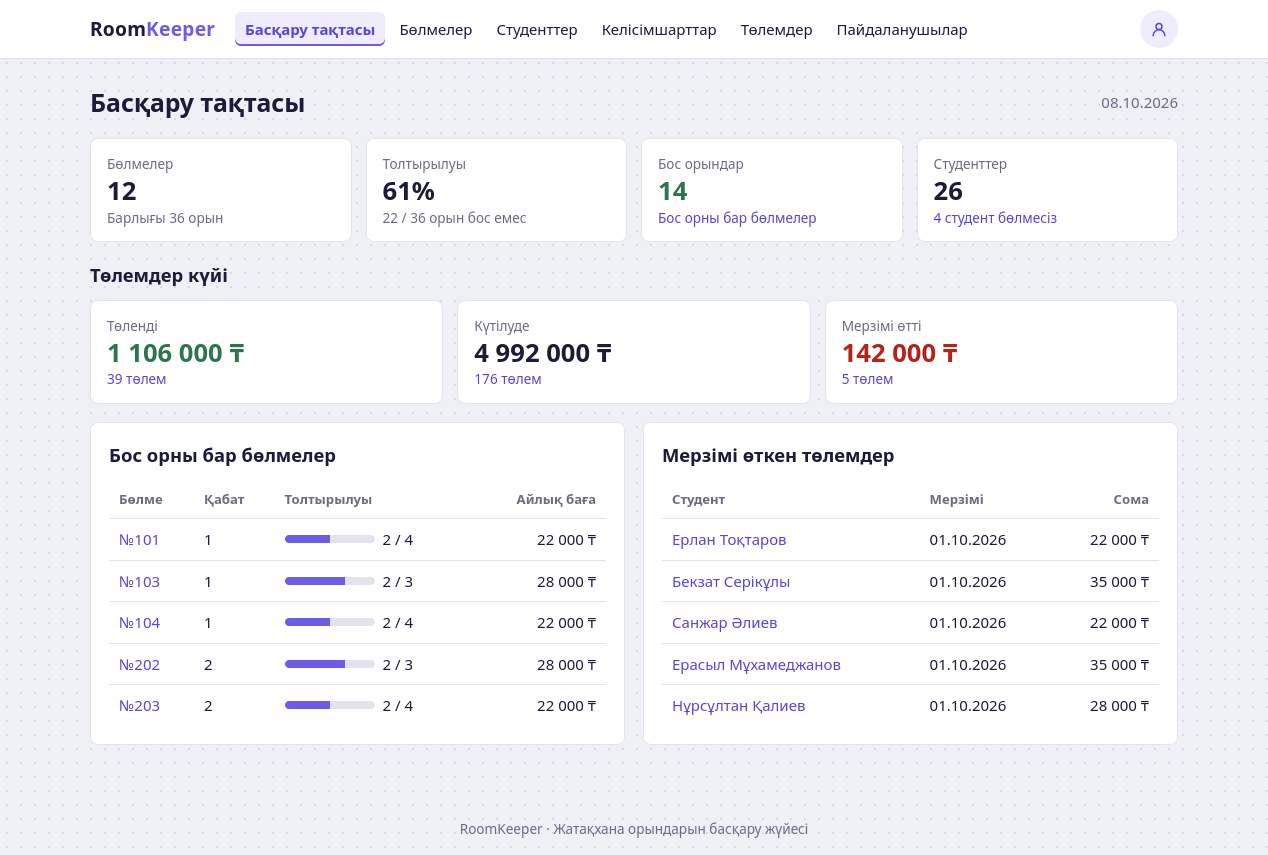
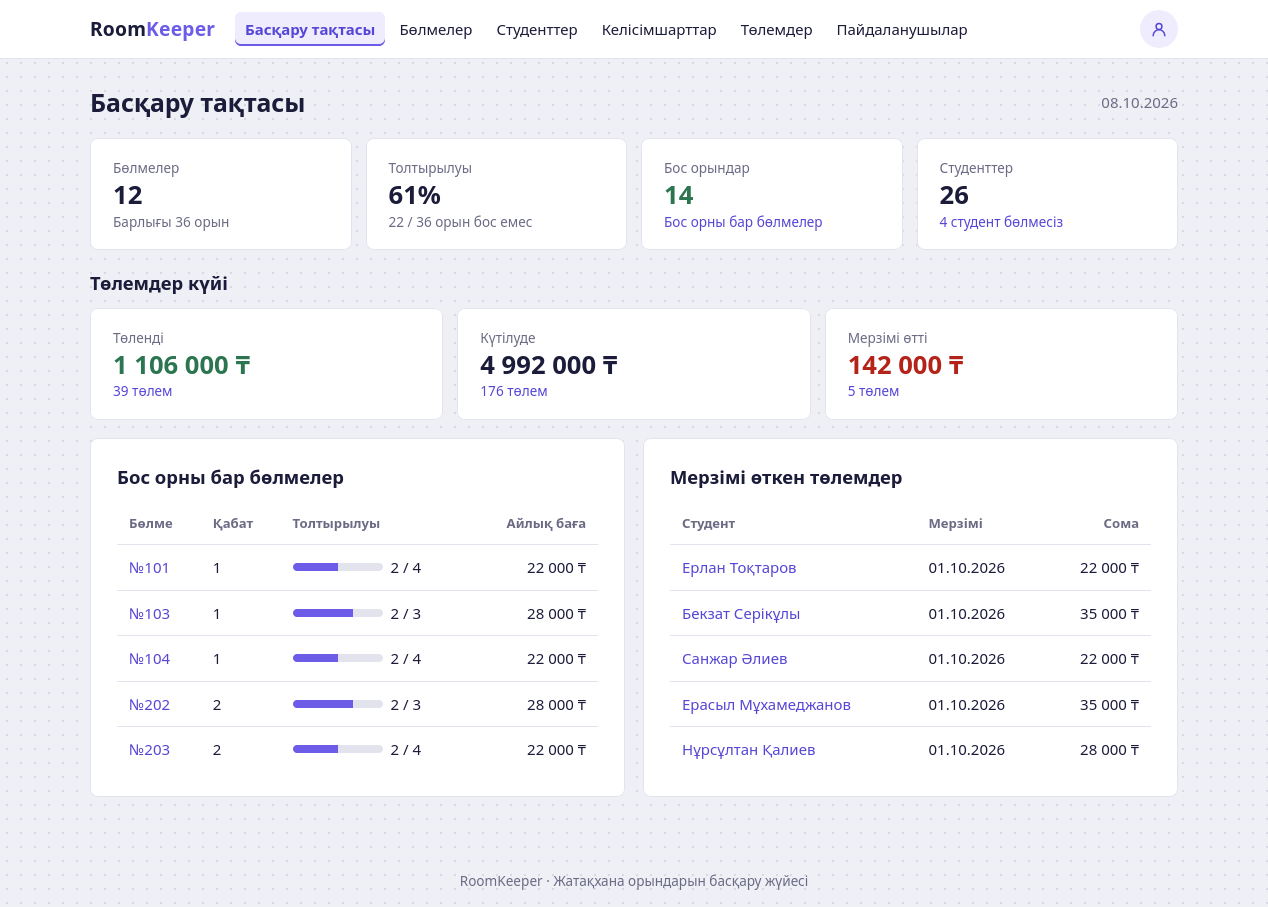
Add Card Change In System

diff --git a/server/app/static/css/style.css b/server/app/static/css/style.css
@@ -100,14 +100,15 @@ h2 { font-size: 1.15rem; margin: 0 0 .75rem; }
   background: var(--surface);
   border: 1px solid var(--border);
   border-radius: var(--radius);
-  padding: 18px;
+  padding: 24px 26px;
   margin-bottom: 18px;
 }
-.card-form { max-width: 620px; }
+/* A heading that shares its row with a button, inside a card. */
+.card .page-head h2 { margin: 0; }
 
 .grid { display: grid; gap: 14px; grid-template-columns: repeat(auto-fit, minmax(190px, 1fr)); margin-bottom: 18px; }
 .columns { display: grid; gap: 18px; grid-template-columns: repeat(auto-fit, minmax(320px, 1fr)); }
-.stat { background: var(--surface); border: 1px solid var(--border); border-radius: var(--radius); padding: 14px 16px; }
+.stat { background: var(--surface); border: 1px solid var(--border); border-radius: var(--radius); padding: 18px 22px; }
 .stat .label { color: var(--muted); font-size: .85rem; }
 .stat .value { font-size: 1.6rem; font-weight: 700; line-height: 1.3; }
 .stat .sub { color: var(--muted); font-size: .85rem; }
@@ -115,14 +116,15 @@ h2 { font-size: 1.15rem; margin: 0 0 .75rem; }
 .stat-success .value { color: var(--success); }
 
 /* Definition lists on detail pages */
-.details { display: grid; grid-template-columns: max-content 1fr; gap: 6px 18px; margin: 0; }
-.details dt { color: var(--muted); }
-.details dd { margin: 0; }
+/* Facts on detail pages: label over value, as many per row as fit. */
+.details { display: grid; grid-template-columns: repeat(auto-fit, minmax(190px, 1fr)); gap: 18px 24px; margin: 0; }
+.details dt { margin-bottom: 2px; color: var(--muted); font-size: .82rem; }
+.details dd { margin: 0; font-weight: 500; overflow-wrap: anywhere; }
 
 /* Buttons */
 .btn {
   display: inline-block;
-  padding: 8px 14px;
+  padding: 9px 16px;
   border: 1px solid var(--border);
   border-radius: 6px;
   background: var(--surface);
@@ -168,8 +170,31 @@ form.inline { display: inline; }
 .field .hint { color: var(--muted); }
 .field .error { color: var(--danger); }
 .field-check label { font-weight: 400; display: flex; align-items: center; gap: 8px; }
-.field-row { display: grid; gap: 14px; grid-template-columns: repeat(auto-fit, minmax(160px, 1fr)); }
 .form-actions { display: flex; gap: 8px; margin-top: 6px; }
+
+/* Add/edit forms fill the page: four columns of fields that fold to two
+   and then one as the window narrows. */
+.form-grid { display: grid; gap: 6px 20px; grid-template-columns: repeat(4, minmax(0, 1fr)); }
+.form-grid .field-check { grid-column: 1 / -1; }
+.span-2 { grid-column: span 2; }
+.span-3 { grid-column: span 3; }
+.card-form .field input:not([type="checkbox"]),
+.card-form .field select,
+.filters input,
+.filters select,
+.filters .btn { padding: 10px 12px; }
+.filters .btn { padding-inline: 18px; }
+.card-form .form-actions { margin-top: 10px; padding-top: 20px; border-top: 1px solid var(--border); }
+.card-form .form-actions .btn { padding: 10px 22px; }
+@media (max-width: 900px) {
+  .form-grid { grid-template-columns: repeat(2, minmax(0, 1fr)); }
+  .span-3 { grid-column: 1 / -1; }
+}
+@media (max-width: 560px) {
+  .form-grid { grid-template-columns: 1fr; }
+  .span-2 { grid-column: auto; }
+  .card { padding: 18px; }
+}
 
 .filters {
   display: flex;
@@ -184,7 +209,7 @@ form.inline { display: inline; }
 /* Tables */
 .table-wrap { overflow-x: auto; }
 table { width: 100%; border-collapse: collapse; }
-th, td { padding: 9px 10px; text-align: left; border-bottom: 1px solid var(--border); vertical-align: middle; }
+th, td { padding: 11px 12px; text-align: left; border-bottom: 1px solid var(--border); vertical-align: middle; }
 th { font-size: .82rem; color: var(--muted); font-weight: 600; white-space: nowrap; }
 tbody tr:hover { background: #fafaff; }
 tbody tr:last-child td { border-bottom: 0; }

diff --git a/server/app/templates/main/profile.html b/server/app/templates/main/profile.html
@@ -12,10 +12,18 @@
   <section class="card">
     <h2>Аккаунт</h2>
     <dl class="details">
-      <dt>Логин</dt><dd>{{ current_user.username }}</dd>
-      <dt>Email</dt><dd>{{ current_user.email }}</dd>
-      <dt>Рөлі</dt><dd><span class="badge badge-{{ current_user.role }}">{{ role_labels[current_user.role] }}</span></dd>
-      <dt>Тіркелген күні</dt><dd>{{ current_user.created_at|date }}</dd>
+      <div>
+        <dt>Логин</dt><dd>{{ current_user.username }}</dd>
+      </div>
+      <div>
+        <dt>Email</dt><dd>{{ current_user.email }}</dd>
+      </div>
+      <div>
+        <dt>Рөлі</dt><dd><span class="badge badge-{{ current_user.role }}">{{ role_labels[current_user.role] }}</span></dd>
+      </div>
+      <div>
+        <dt>Тіркелген күні</dt><dd>{{ current_user.created_at|date }}</dd>
+      </div>
     </dl>
   </section>
 
@@ -23,18 +31,26 @@
     <h2>{{ 'Жатақхана' if student or not current_user.is_admin else 'Әкімші құқықтары' }}</h2>
     {% if student %}
       <dl class="details">
-        <dt>Студент</dt><dd>{{ student.full_name }}</dd>
-        <dt>Курс</dt><dd>{{ student.course or '—' }}</dd>
-        <dt>Телефон</dt><dd>{{ student.phone or '—' }}</dd>
-        <dt>Бөлме</dt>
-        <dd>
-          {% if student.room %}
-            <a href="{{ url_for('rooms.detail', room_id=student.room.id) }}">№{{ student.room.number }}</a>,
-            {{ student.room.floor }}-қабат
-          {% else %}
-            <span class="muted">берілмеген</span>
-          {% endif %}
-        </dd>
+        <div>
+          <dt>Студент</dt><dd>{{ student.full_name }}</dd>
+        </div>
+        <div>
+          <dt>Курс</dt><dd>{{ student.course or '—' }}</dd>
+        </div>
+        <div>
+          <dt>Телефон</dt><dd>{{ student.phone or '—' }}</dd>
+        </div>
+        <div>
+          <dt>Бөлме</dt>
+          <dd>
+            {% if student.room %}
+              <a href="{{ url_for('rooms.detail', room_id=student.room.id) }}">№{{ student.room.number }}</a>,
+              {{ student.room.floor }}-қабат
+            {% else %}
+              <span class="muted">берілмеген</span>
+            {% endif %}
+          </dd>
+        </div>
       </dl>
     {% elif current_user.is_admin %}
       <p class="muted">Сіз жатақхана жүйесінің әкімшісісіз: бөлмелерді, студенттерді, келісімшарттар мен төлемдерді басқарасыз, пайдаланушылардың рөлін өзгерте аласыз.</p>

diff --git a/server/app/templates/contracts/form.html b/server/app/templates/contracts/form.html
@@ -11,23 +11,21 @@
 <div class="card card-form">
   <form method="post" enctype="multipart/form-data" novalidate>
     {{ form.hidden_tag() }}
-    <div class="field-row">
-      {{ ui.field(form.student_id) }}
+    <div class="form-grid">
+      {{ ui.field(form.student_id, span=2) }}
       {{ ui.field(form.number, hint="Мысалы: RK-2026-001") }}
-    </div>
-    <div class="field-row">
+      {{ ui.field(form.monthly_fee) }}
       {{ ui.field(form.start_date) }}
       {{ ui.field(form.end_date) }}
+      {% if contract and contract.pdf_filename %}
+        {{ ui.field(form.pdf, span=2, hint="Қазіргі файл: " ~ contract.pdf_original_name ~ ". Жаңа файл таңдасаңыз, ескісі ауыстырылады.", accept=".pdf,application/pdf") }}
+      {% else %}
+        {{ ui.field(form.pdf, span=2, hint="Тек PDF, " ~ (config.MAX_CONTENT_LENGTH / 1024 / 1024)|round|int ~ " МБ-қа дейін.", accept=".pdf,application/pdf") }}
+      {% endif %}
+      {% if not contract %}
+        {{ ui.checkbox(form.generate_schedule) }}
+      {% endif %}
     </div>
-    {{ ui.field(form.monthly_fee) }}
-    {% if contract and contract.pdf_filename %}
-      {{ ui.field(form.pdf, hint="Қазіргі файл: " ~ contract.pdf_original_name ~ ". Жаңа файл таңдасаңыз, ескісі ауыстырылады.", accept=".pdf,application/pdf") }}
-    {% else %}
-      {{ ui.field(form.pdf, hint="Тек PDF, " ~ (config.MAX_CONTENT_LENGTH / 1024 / 1024)|round|int ~ " МБ-қа дейін.", accept=".pdf,application/pdf") }}
-    {% endif %}
-    {% if not contract %}
-      {{ ui.checkbox(form.generate_schedule) }}
-    {% endif %}
     <div class="form-actions">
       <button type="submit" class="btn btn-primary">Сақтау</button>
       <a class="btn" href="{{ url_for('contracts.detail', contract_id=contract.id) if contract else url_for('contracts.index') }}">Болдырмау</a>

diff --git a/server/app/templates/students/detail.html b/server/app/templates/students/detail.html
@@ -14,21 +14,33 @@
 
 <section class="card">
   <dl class="details">
-    <dt>Email</dt><dd>{{ student.email }}</dd>
-    <dt>Телефон</dt><dd>{{ student.phone or '—' }}</dd>
-    <dt>Курс</dt><dd>{{ student.course or '—' }}</dd>
-    <dt>Бөлме</dt>
-    <dd>
-      {% if student.room %}
-        <a href="{{ url_for('rooms.detail', room_id=student.room.id) }}">№{{ student.room.number }}</a>,
-        {{ student.room.floor }}-қабат
-      {% else %}
-        <span class="muted">берілмеген</span>
-      {% endif %}
-    </dd>
-    <dt>Аккаунт</dt>
-    <dd>{% if student.user %}{{ student.user.username }}{% else %}<span class="muted">байланыспаған</span>{% endif %}</dd>
-    <dt>Тіркелген күні</dt><dd>{{ student.created_at|date }}</dd>
+    <div>
+      <dt>Email</dt><dd>{{ student.email }}</dd>
+    </div>
+    <div>
+      <dt>Телефон</dt><dd>{{ student.phone or '—' }}</dd>
+    </div>
+    <div>
+      <dt>Курс</dt><dd>{{ student.course or '—' }}</dd>
+    </div>
+    <div>
+      <dt>Бөлме</dt>
+      <dd>
+        {% if student.room %}
+          <a href="{{ url_for('rooms.detail', room_id=student.room.id) }}">№{{ student.room.number }}</a>,
+          {{ student.room.floor }}-қабат
+        {% else %}
+          <span class="muted">берілмеген</span>
+        {% endif %}
+      </dd>
+    </div>
+    <div>
+      <dt>Аккаунт</dt>
+      <dd>{% if student.user %}{{ student.user.username }}{% else %}<span class="muted">байланыспаған</span>{% endif %}</dd>
+    </div>
+    <div>
+      <dt>Тіркелген күні</dt><dd>{{ student.created_at|date }}</dd>
+    </div>
   </dl>
 </section>
 

diff --git a/server/app/templates/contracts/detail.html b/server/app/templates/contracts/detail.html
@@ -16,13 +16,23 @@
   <section class="card">
     <h2>Мәліметтер</h2>
     <dl class="details">
-      <dt>Студент</dt>
-      <dd><a href="{{ url_for('students.detail', student_id=contract.student_id) }}">{{ contract.student.full_name }}</a></dd>
-      <dt>Мерзімі</dt><dd>{{ contract.start_date|date }} – {{ contract.end_date|date }}</dd>
-      <dt>Айлық төлем</dt><dd>{{ contract.monthly_fee|money }}</dd>
-      <dt>Төленді</dt><dd>{{ contract.total_paid|money }} / {{ contract.total_due|money }}</dd>
-      <dt>Қарыз</dt>
-      <dd>{% if contract.debt %}<strong>{{ contract.debt|money }}</strong>{% else %}жоқ{% endif %}</dd>
+      <div>
+        <dt>Студент</dt>
+        <dd><a href="{{ url_for('students.detail', student_id=contract.student_id) }}">{{ contract.student.full_name }}</a></dd>
+      </div>
+      <div>
+        <dt>Мерзімі</dt><dd>{{ contract.start_date|date }} – {{ contract.end_date|date }}</dd>
+      </div>
+      <div>
+        <dt>Айлық төлем</dt><dd>{{ contract.monthly_fee|money }}</dd>
+      </div>
+      <div>
+        <dt>Төленді</dt><dd>{{ contract.total_paid|money }} / {{ contract.total_due|money }}</dd>
+      </div>
+      <div>
+        <dt>Қарыз</dt>
+        <dd>{% if contract.debt %}<strong>{{ contract.debt|money }}</strong>{% else %}жоқ{% endif %}</dd>
+      </div>
     </dl>
   </section>
 

diff --git a/server/app/templates/students/form.html b/server/app/templates/students/form.html
@@ -11,16 +11,14 @@
 <div class="card card-form">
   <form method="post" novalidate>
     {{ form.hidden_tag() }}
-    {{ ui.field(form.full_name) }}
-    <div class="field-row">
+    <div class="form-grid">
+      {{ ui.field(form.full_name, span=2) }}
       {{ ui.field(form.email, type="email") }}
       {{ ui.field(form.phone, type="tel", hint="Мысалы: +77011234567") }}
-    </div>
-    <div class="field-row">
       {{ ui.field(form.course, hint="1-ден 6-ға дейін") }}
       {{ ui.field(form.room_id, hint="Жақшада: бос емес / барлық орын") }}
+      {{ ui.field(form.user_id, span=2, hint="Байланысқан пайдаланушы өз келісімшарты мен төлемдерін «Менің бетім» бөлімінен көреді.") }}
     </div>
-    {{ ui.field(form.user_id, hint="Байланысқан пайдаланушы өз келісімшарты мен төлемдерін «Менің бетім» бөлімінен көреді.") }}
     <div class="form-actions">
       <button type="submit" class="btn btn-primary">Сақтау</button>
       <a class="btn" href="{{ url_for('students.detail', student_id=student.id) if student else url_for('students.index') }}">Болдырмау</a>

diff --git a/server/app/templates/rooms/detail.html b/server/app/templates/rooms/detail.html
@@ -18,11 +18,21 @@
   <section class="card">
     <h2>Мәліметтер</h2>
     <dl class="details">
-      <dt>Қабат</dt><dd>{{ room.floor }}</dd>
-      <dt>Орын саны</dt><dd>{{ room.capacity }}</dd>
-      <dt>Бос емес</dt><dd>{{ room.occupied }}</dd>
-      <dt>Бос орын</dt><dd>{{ room.free_places }}</dd>
-      <dt>Айлық баға</dt><dd>{{ room.monthly_price|money }}</dd>
+      <div>
+        <dt>Қабат</dt><dd>{{ room.floor }}</dd>
+      </div>
+      <div>
+        <dt>Орын саны</dt><dd>{{ room.capacity }}</dd>
+      </div>
+      <div>
+        <dt>Бос емес</dt><dd>{{ room.occupied }}</dd>
+      </div>
+      <div>
+        <dt>Бос орын</dt><dd>{{ room.free_places }}</dd>
+      </div>
+      <div>
+        <dt>Айлық баға</dt><dd>{{ room.monthly_price|money }}</dd>
+      </div>
     </dl>
   </section>
 

diff --git a/server/app/templates/payments/form.html b/server/app/templates/payments/form.html
@@ -11,13 +11,13 @@
 <div class="card card-form">
   <form method="post" novalidate>
     {{ form.hidden_tag() }}
-    {{ ui.field(form.contract_id) }}
-    <div class="field-row">
+    <div class="form-grid">
+      {{ ui.field(form.contract_id, span=2) }}
       {{ ui.field(form.amount) }}
       {{ ui.field(form.due_date) }}
+      {{ ui.field(form.paid_at, hint="Төлем әлі түспесе, бос қалдырыңыз.") }}
+      {{ ui.field(form.comment, span=3) }}
     </div>
-    {{ ui.field(form.paid_at, hint="Төлем әлі түспесе, бос қалдырыңыз.") }}
-    {{ ui.field(form.comment) }}
     <div class="form-actions">
       <button type="submit" class="btn btn-primary">Сақтау</button>
       <a class="btn" href="{{ cancel_url }}">Болдырмау</a>

diff --git a/server/app/templates/_macros.html b/server/app/templates/_macros.html
@@ -2,11 +2,12 @@
 
 {# compact=true shows the label as a placeholder (it stays readable to
    screen readers), for forms that should look as light as possible.
+   span=N makes the field N columns wide inside a .form-grid.
    Password fields get a show/hide button, wired up by
    static/js/password-toggle.js. #}
-{% macro field(f, hint=None, compact=False) %}
+{% macro field(f, hint=None, compact=False, span=None) %}
   {% set attrs = dict(kwargs, placeholder=f.label.text) if compact else kwargs %}
-  <div class="field{% if f.errors %} has-error{% endif %}">
+  <div class="field{% if span %} span-{{ span }}{% endif %}{% if f.errors %} has-error{% endif %}">
     {{ f.label(class="sr-only") if compact else f.label }}
     {% if f.type == 'PasswordField' %}
       <div class="password-wrap">

diff --git a/server/app/templates/rooms/form.html b/server/app/templates/rooms/form.html
@@ -11,11 +11,9 @@
 <div class="card card-form">
   <form method="post" novalidate>
     {{ form.hidden_tag() }}
-    <div class="field-row">
+    <div class="form-grid">
       {{ ui.field(form.number, hint="Мысалы: 101 немесе 2-A") }}
       {{ ui.field(form.floor) }}
-    </div>
-    <div class="field-row">
       {{ ui.field(form.capacity, hint="1-ден 6-ға дейін") }}
       {{ ui.field(form.monthly_price) }}
     </div>

diff --git a/CLAUDE.md b/CLAUDE.md
@@ -104,6 +104,8 @@ There is no linter. Schema changes go through Flask-Migrate (Alembic) in `server
 - **Occupancy**: `Room.occupied` is a `column_property` (correlated `COUNT` over students), so it can be used in `WHERE`/`ORDER BY`. It is loaded with the row and goes stale until the session is committed or the row is refreshed.
 - **Payment status** is not stored: `Payment.status` derives it from `paid_at` and `due_date`, and `Payment.status_filter()` is the matching SQL expression — change both together. Same pairing for `Contract.state` / `Contract.state_filter()`.
 - **Forms**: every form extends `BaseForm`, which keeps the edited row in `form.obj` so the `Unique` validator and "room is full" check can ignore the row's own values. Select fields use `0` for "none". The API validates room JSON through the same `RoomForm` (`room_form()` in `app/api/routes.py`).
+- **Form layout**: add/edit pages put their fields in a `.form-grid` inside a full-width `.card-form` (the user asked for the forms to use the whole page width): four columns, folding to two below 900px and one below 560px. Widen a field with `ui.field(f, span=2)` / `span=3`.
+- **Detail pages**: facts are a `dl.details` whose `<dt>`/`<dd>` pairs are each wrapped in a `<div>`; the list is a grid that fits as many label-over-value pairs per row as the card allows. Cards share one padding (`.card`), and filter bars, form fields and buttons share one control height — keep new pages on these classes instead of adding page-specific spacing.
 - **Lists**: `apply_sort()` only accepts keys from each view's `SORT_COLUMNS` whitelist; `paginate()` fixes `per_page` from `ITEMS_PER_PAGE`. Templates build sort/page links with the `list_url` macro, which preserves the current query string.
 - **Uploads**: `ContractForm.validate_pdf` checks extension and the `%PDF-` signature; `save_contract_pdf()` stores the file under a random UUID name and keeps a sanitised display name. Files are served only by `contracts.download` (admin or the contract's owner). Files are deleted from disk after the DB commit that drops or replaces them.
 - **CSRF**: `CSRFProtect` covers all HTML forms; state-changing actions are POST-only via the `post_button` macro. The `api` blueprint is exempt and relies on the `SameSite=Lax` session cookie.
